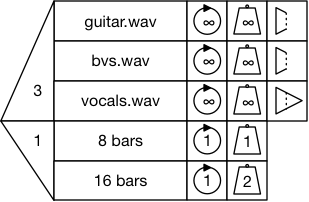
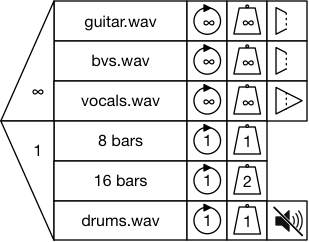
Updated second test questions

Changed region(s): [[0.0, 0.0, 1.0, 1.0]]

diff --git a/Second round questions.md b/Second round questions.md
@@ -6,7 +6,7 @@ Questionnaire for participants: <https://goo.gl/forms/YHTjQz8HcXG0AEO52>
 
 ## Scenario 1 - understanding the Soundable Chooser
 
-**Video** introducing lanes, nose cone, weighting inc. infinity, repeats inc. infinite repeat.
+**Video** introducing lanes, nose cone, weighting inc. infinity, repeats inc. infinite repeat. Clearly state that vertical lanes do not necessarily mean that they will play together.
 
 
 Here is a **Soundable Chooser** with two samples. 
@@ -33,47 +33,47 @@ Make a Soundable Chooser which has three lanes---those lanes should contain infi
 
 
 
-## Scenario 3 - understanding the time chooser
+## Scenario 3 - Time Choosers and Full Choosers
 
-**Video** introducing Time Choosers, multiple-lane Time Choosers, and Time Chooser nose cone restrictions.
+**Video** introducing Time Choosers (inc. nose cone restrictions and multiple lanes), Full Choosers with duration control via the Time Chooser, infinity as a duration, and hard and soft stops (with visual example).
 
 
-Here is a Time Chooser with two lanes.
+Here is a Full Chooser, comprising the Soundable Chooser from Scenario 1 and a Time Chooser.
 
 ![](images/scenario3.png)
 
-* Describe what will happen when this chooser is run by itself.
-* The nosecone is currently set to 1. What else could it be set to? What would happen if it is changed?
-* How could you make a duration of 2 bars most likely to be selected?
+* Describe what will happen when this Chooser is run.
+* The Time Chooser's nose cone is currently set to 1. What else could it be set to? What would happen if it is changed?
 
 
-## Scenario 4 - creating a single-lane time chooser
-Keeping the soundable chooser you made for scenario 2, create a single-lane time chooser.
+## Scenario 4 - Time Choosers as rests
 
-Make a four bar rest.
+If a Time Chooser is used without a Soundable Chooser it will  create a rest of the selected duration.
+
+Create a single-lane Time Chooser to insert a four bar rest.
+
+![](images/scenario4a.png)
 
 * Now you have made the rest, find two ways to quickly skip it. What do you think the nose cone value could be? What would happen if you gave the nose cone that value?
 * What impact would there be if you changed the weight of the lane?
 
+![](images/scenario4b.png)
 
-**Video** introducing Full Choosers, duration control via the Time Chooser, and hard and soft stops.
-
-
-Next, take the Time Chooser and snap it onto the Soundable Chooser created in scenario 2. What is the impact of this?
-
-![](images/scenario4.png)
+* Add a second lane to the Time Chooser, with a duration of 4 bars. Make the lanes equally likely to be selected.
+* How could you make the duration of 2 bars most likely to be selected?
 
 
-## Scenario 5 - understanding a full chooser
-Look at this Chooser and say what will happen when the Chooser is played. The `drums` and `bass` samples are four bars long. The `marimba` sample is two bars long.
+
+## Scenario 5 - understanding a Full Chooser
+Look at this Chooser and say what will happen when the Chooser is played. The `drums` and `bass` samples are four bars long. The `guitar` sample is two bars long.
 
 ![](images/scenario5.png)
 
-* How many samples will play? Will they loop or play once? What effect would changing the loop setting on the drums have?
-* How long will the chooser play for? What happens when the duration elapses?
-* What would happen if the time chooser was set to a soft stop?
-* What would happen if the time nose cone stayed at 1 and the soundable nose cone was changed to 2? To 1? To zero?
-* How could you make it infinite playback? How could it be made into a rest? Skipped entirely?
+* How many samples will play? Will they loop or play once? What effect would changing the repeat setting on the drums have?
+* How long will the Chooser play for? What happens when the duration elapses?
+* What would happen if the Soundable Chooser lanes were set to a soft stop?
+* What would happen if the time nose cone stayed at 1 and the soundable nose cone was changed to 3? To 1? To zero?
+* How could you create infinite playback? How could the Chooser be made into a rest? Skipped entirely?
 
 
 ## Scenario 6 - understanding a full chooser with multiple lane times
@@ -81,22 +81,30 @@ Here is a chooser containing a time chooser with multiple lanes.
 
 ![](images/scenario6.png)
 
-* What do you expect to happen in the soundable chooser?
-* What will happen in the time chooser? Which lane is more likely to be selected? What are the consequences of the selection of the uppermost time chooser lane? What will be different if the lower time chooser lane is selected?
-* What other values are possible for the nose cone of the soundable chooser?
-* What other values are possible for the nose cone of the time chooser?
+* What do you expect to happen in the Soundable Chooser?
+* [Be sure to check understanding of infinity in:]
+	* Nose cone
+	* Repeats
+	* Weights
+* What will the impact of the hard and soft stops be?
+* What will happen in the Time Chooser?
+	* Which lane is more likely to be selected?
+	* What would happen if you changed the number of repeats for the 8 bar lane to '2'?
+	* What will happen if the `drums.wav` lane is selected? Will we hear it? How can make it so the sample will be audible? 
+* What other values are possible for the nose cone of the Soundable Chooser? What would happen in each case?
+* What other values are possible for the nose cone of the Time Chooser? What would the consequences of each change be?
 
 
 ## Scenario 7 - creating a full chooser
 Using the templates, create a full chooser which:
 
 * Has four soundable lanes, three of which will play at any given time;
-   * Drums and bass, which always play, and are set to loop;
-   * Guitar and vocals - guitar is twice as likely as vocals to be selected for playback. Neither should loop.
+   * Drums and bass, which always play, are set to repeat infinitely with a hard stop;
+   * Guitar and vocals - guitar is twice as likely as vocals to be selected for playback. Both should play once only. The guitar should have a hard stop, and the vocals should have a soft stop.
 * Has three possible durations, of which one will be selected;
-   * 2 bars with a hard stop;
-   * 4 bars with a soft stop;
-   * 5 bars with a hard stop;
+   * 2 bars;
+   * 4 bars;
+   * 5 bars;
    * Make the 2 bar duration twice as likely to be selected as the 4 and 5 bar durations.
 
 
@@ -104,7 +112,6 @@ Using the templates, create a full chooser which:
 
 
 Video - sequence
-
 
 Using the templates and samples available, make a piece of music which uses a sequence of three choosers. The music will be recorded and shared online. 
 
